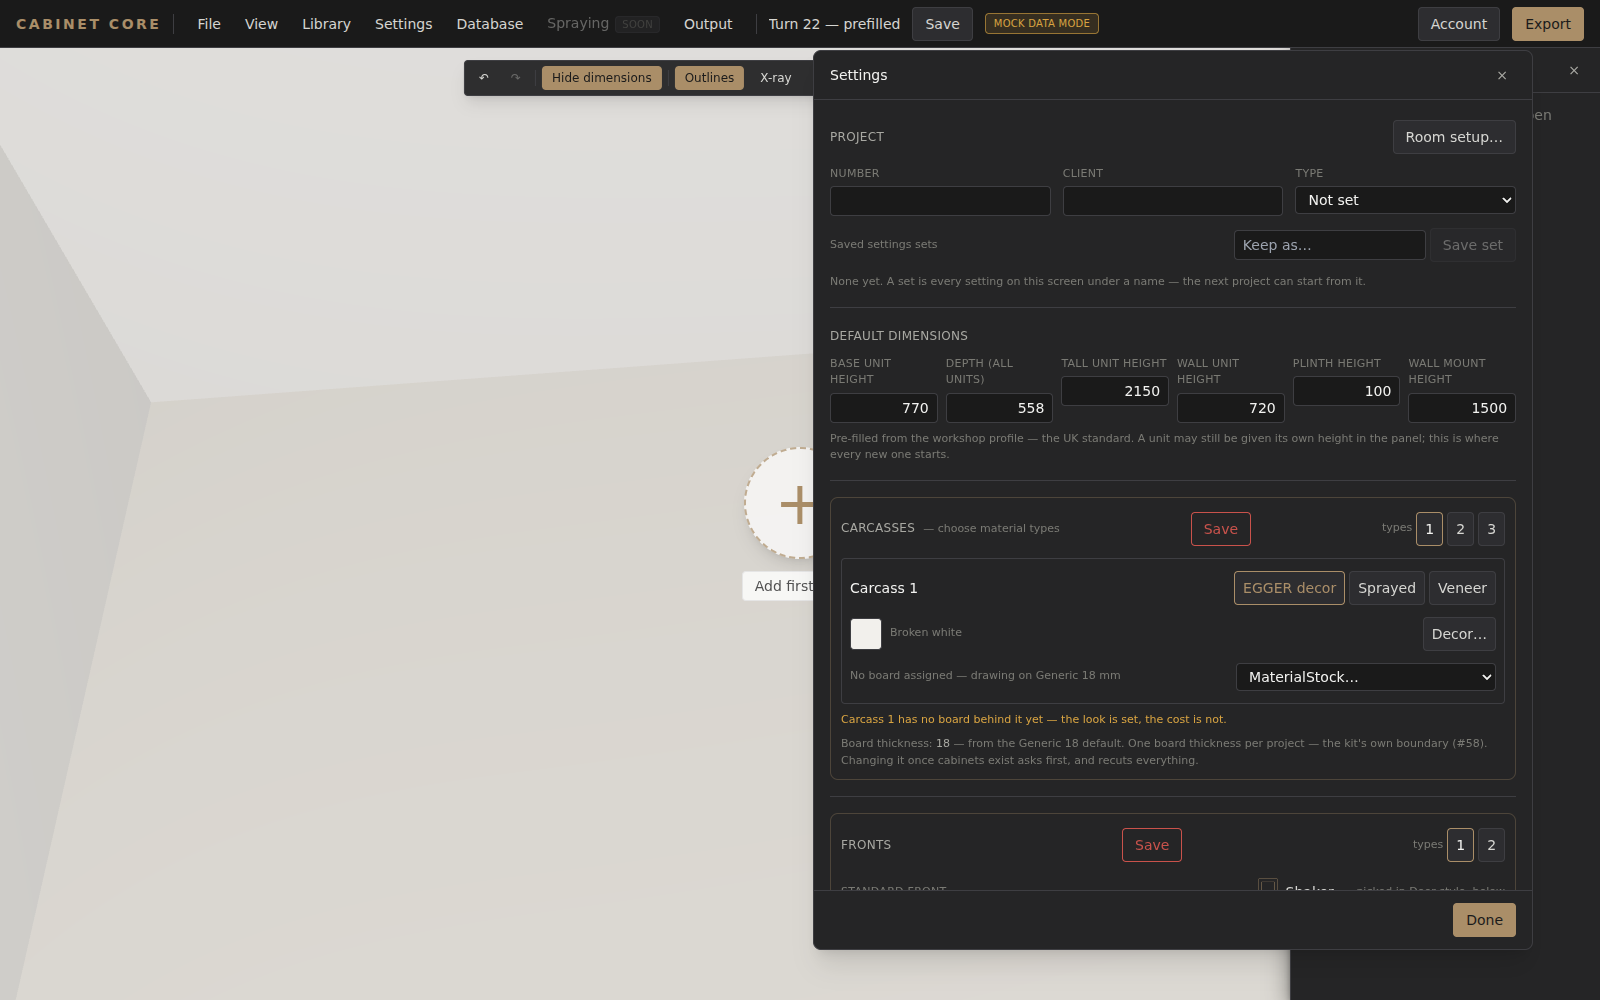
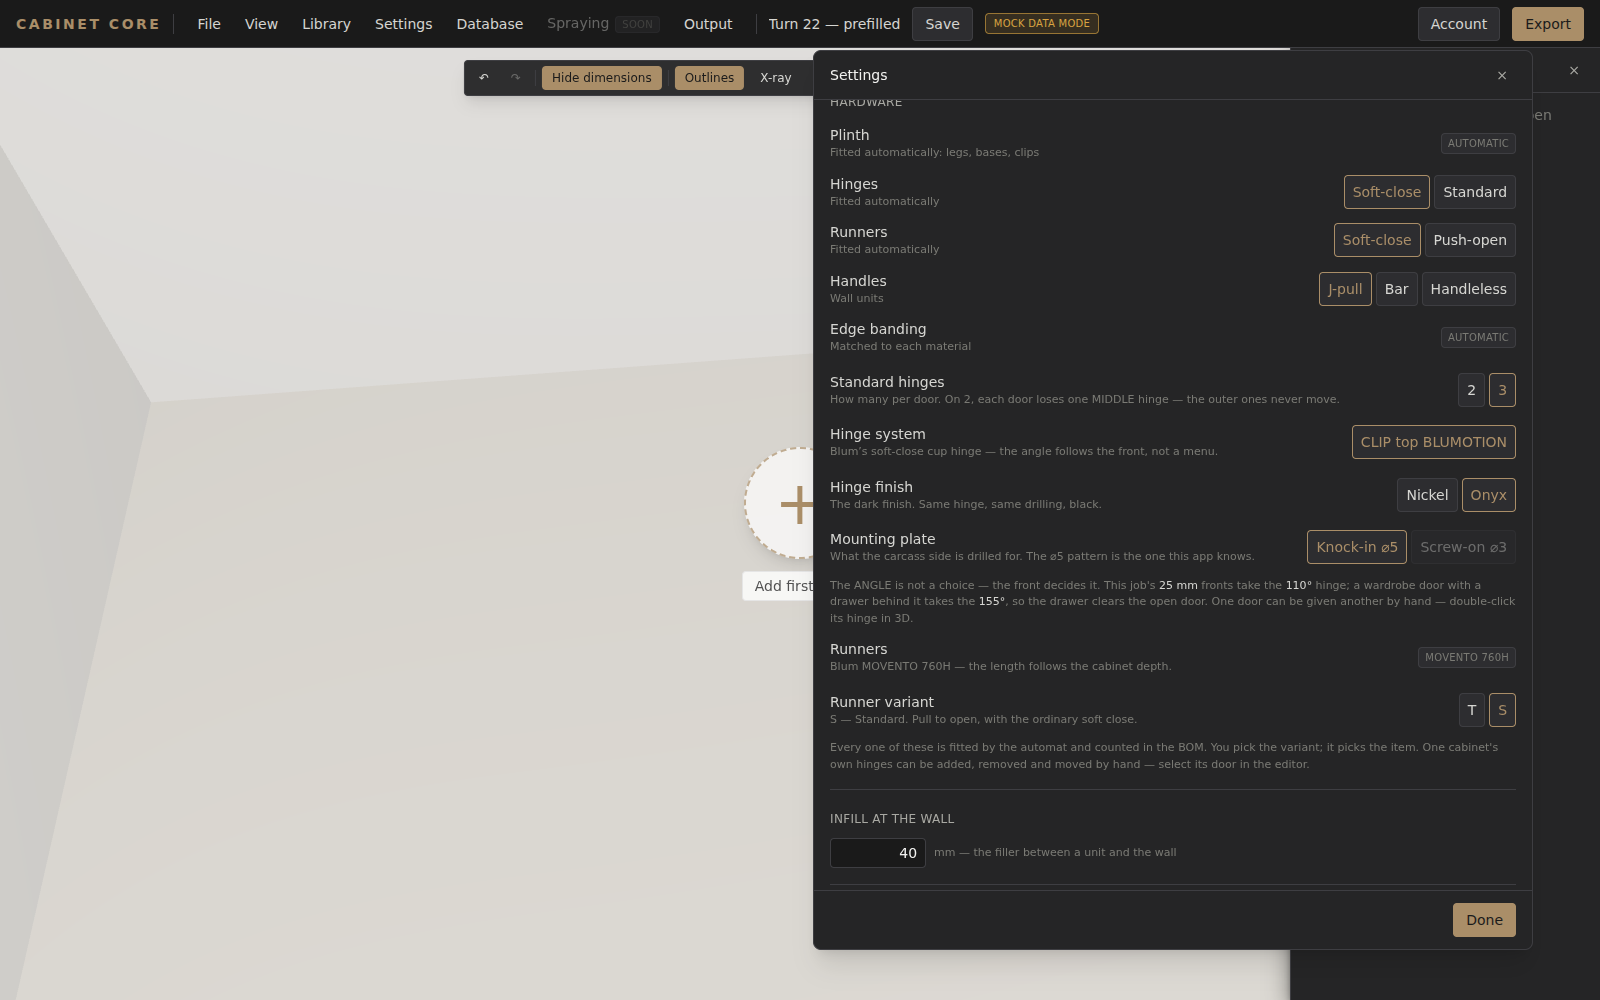
Turn 22: the prefill picture shows the prefilled controls
The settings screenshot was opening on the panel's top, so the four fields the
company row had actually filled in were below the fold — a picture that proved
nothing about the claim under it. The walk now scrolls to the hardware
controls, ASSERTS what is selected there against the row, and photographs
that: Hinge finish Onyx, Runner variant S, neither typed into the project.

Walk 30/32, 0 failed, 2 blocked by this session's egress policy.

Claude-Session: https://claude.ai/code/session_01EFYSGy4NYU4zpJdmix7X45

diff --git a/verify/t22/README.md b/verify/t22/README.md
@@ -14,7 +14,7 @@ node scripts/bucket-live.mjs              # R2
 
 ## The walk — `walk.json`
 
-**29 passed, 0 failed, 2 blocked by this environment**, on a real Chromium
+**30 passed, 0 failed, 2 blocked by this environment**, on a real Chromium
 driven over the DevTools protocol.
 
 * **R1** every click and every drag is `Input.dispatchMouseEvent`. The ban on
@@ -41,7 +41,7 @@ proxy's own answer.
 | `4a-bud-and-dw-one-plinth-line-at-50.png` | F4.6 — BUD + D/W panel on a run set to 50 mm legs, sharing one plinth line |
 | `4b-dw-dragged-along-the-run.png` | F4.4(b) — the D/W after a real pointer drag along the run |
 | `2a-company-defaults-and-hardware-health.png` | F2b.2 and F3 — the Company defaults screen (with the "needs an account" notice, the four preferences and the per-family boards) and the hardware health row under it |
-| `2b-new-project-prefilled-from-the-row.png` | F2b.3 — a project created with a company row present, in its own settings |
+| `2b-new-project-prefilled-from-the-row.png` | F2b.3 — a project created with a company row present: its own Settings screen showing Hinge finish **Onyx** and Runner variant **S**, neither of which was typed into it |
 | `99-the-room-at-the-end.png` | the room the walk finished in |
 
 ## CNC

diff --git a/BUILD-LOG.md b/BUILD-LOG.md
@@ -6787,7 +6787,7 @@ niego.
 
 ## Dowody
 
-`verify/t22/` — `walk.json` (**29/31, 0 porażek**, 2 zablokowane przez politykę
+`verify/t22/` — `walk.json` (**30/32, 0 porażek**, 2 zablokowane przez politykę
 wyjścia sesji), `console.txt`, siedem zrzutów, `fingerprints-diff.txt` na
 **ZERO linii**, `probes.txt` (trzy sondy równoważności), `cnc-export-identity.md`,
 `bucket-live.md/.txt/.json`, `README.md`.
